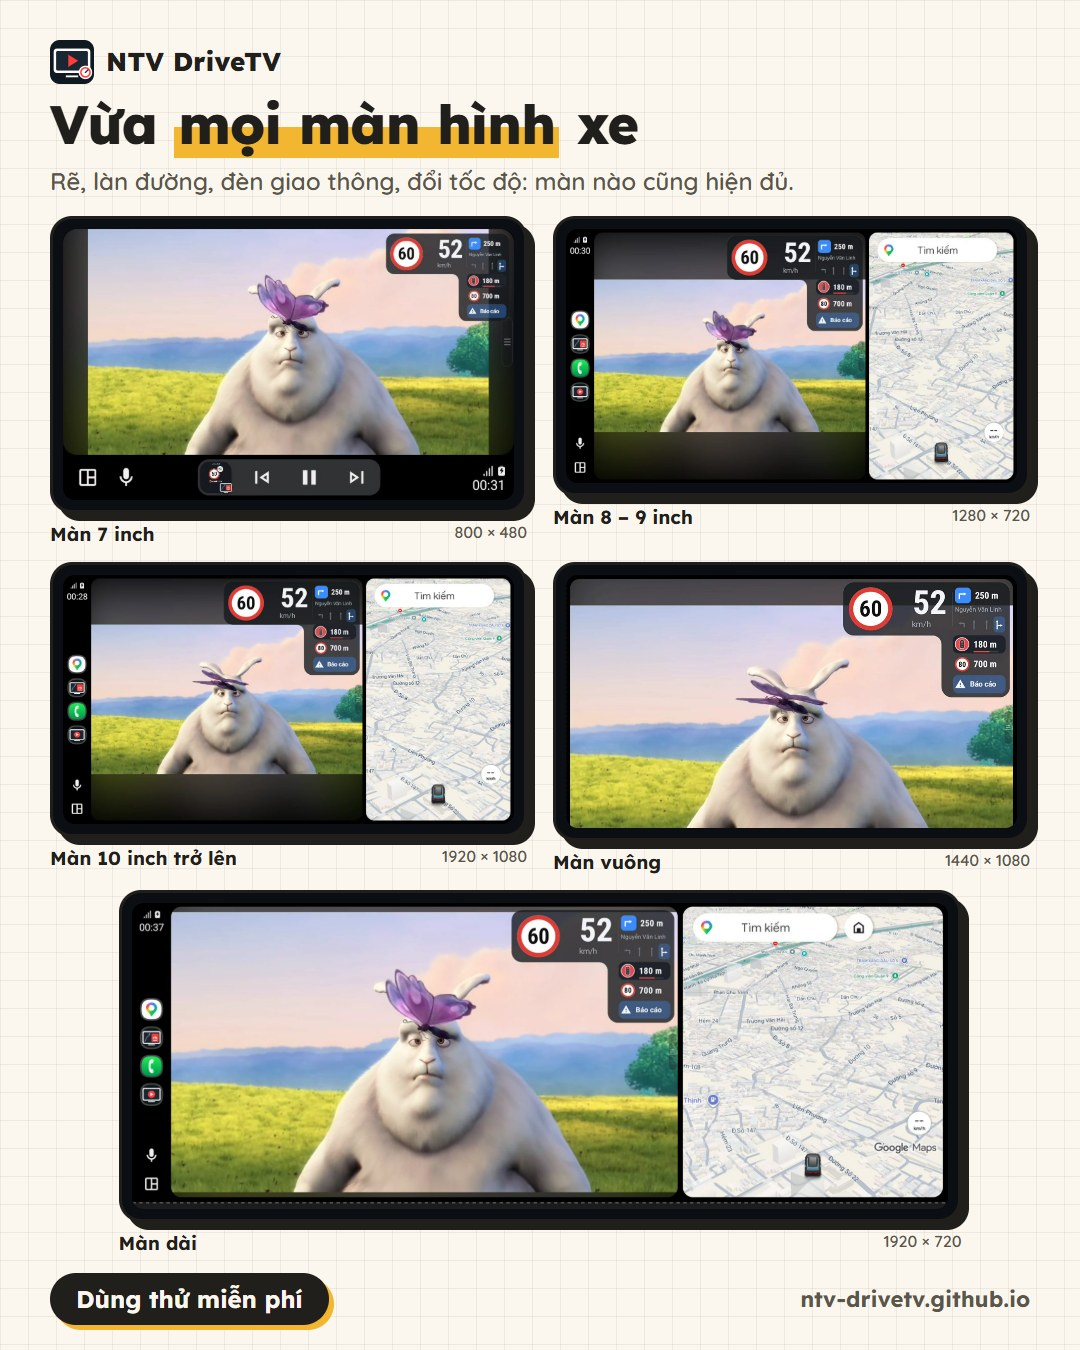
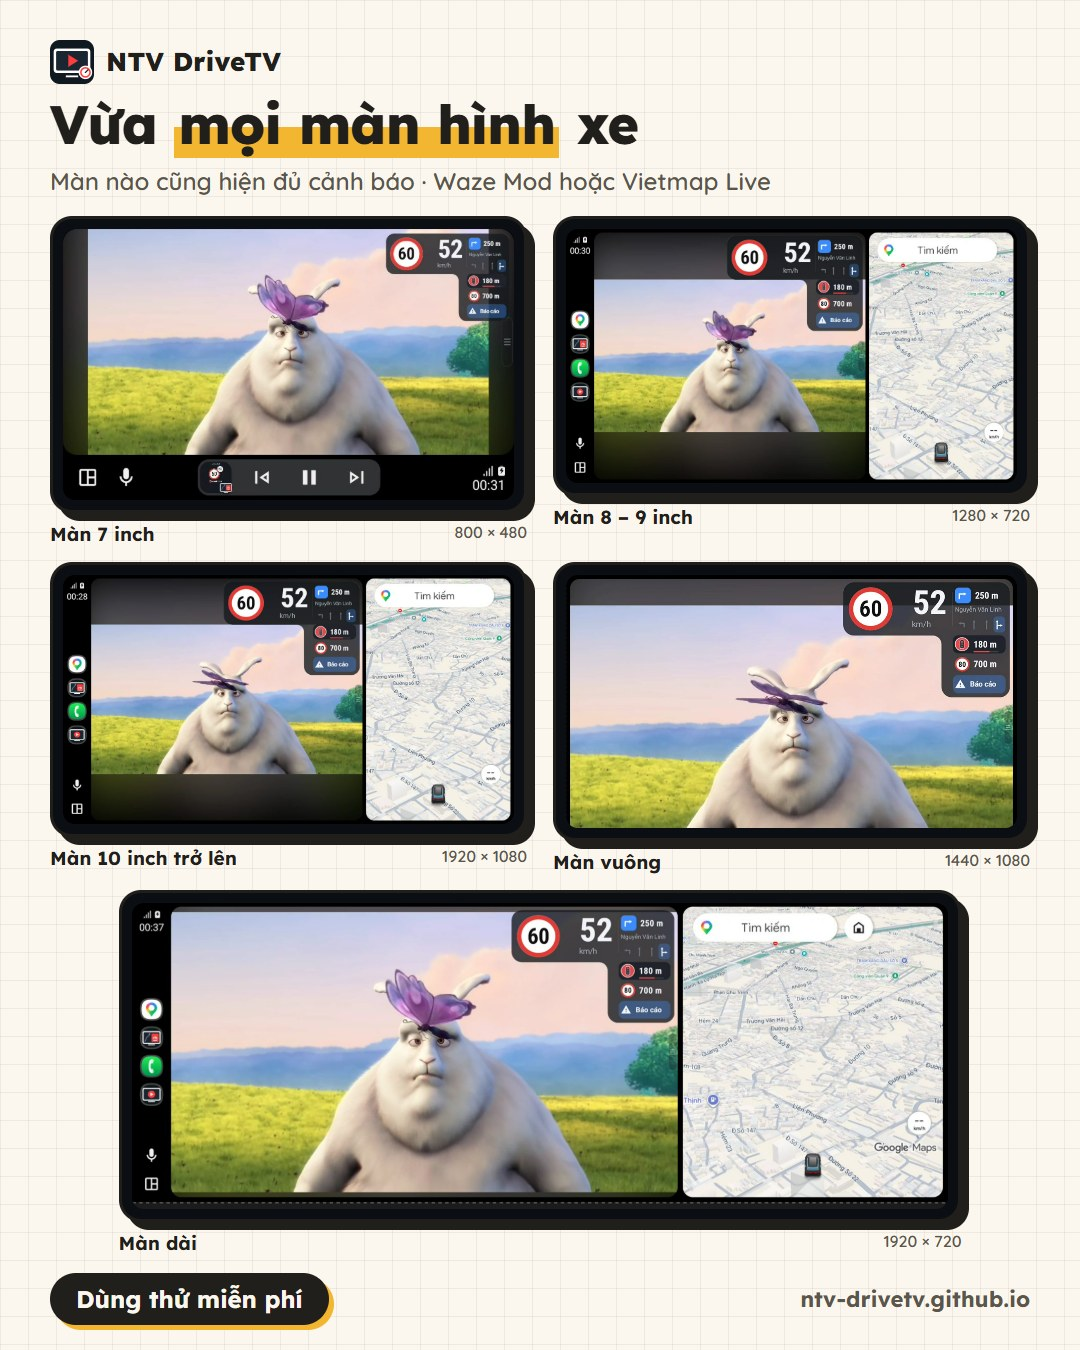
Nhắc Vietmap Live là nguồn tốc độ, cảnh báo bên cạnh Waze Mod
- Mô tả, trang chủ, thẻ tính năng, bảng giá, yêu cầu, so sánh, hỏi đáp: Waze Mod hoặc Vietmap Live; ghi rõ Vietmap không có lối rẽ, làn đường.
- Hỏi đáp mới: Dùng Vietmap Live được không.
- Ảnh quảng cáo, og.jpg ghi nguồn Waze Mod hoặc Vietmap Live.

Changed region(s): [[0.0306, 0.1244, 0.7333, 0.1556]]

diff --git a/index.html b/index.html
@@ -4,7 +4,7 @@
 <meta charset="utf-8">
 <meta name="viewport" content="width=device-width, initial-scale=1, viewport-fit=cover">
 <title>NTV DriveTV</title>
-<meta name="description" content="Xem YouTube trên màn hình Android Auto, góc màn hình có bong bóng báo giới hạn, tốc độ, chỗ rẽ, làn đường và camera lấy từ Waze Mod. Không cần root, dùng thử miễn phí.">
+<meta name="description" content="Xem YouTube trên màn hình Android Auto, góc màn hình có bong bóng báo giới hạn, tốc độ, chỗ rẽ, làn đường và camera lấy từ Waze Mod hoặc Vietmap Live. Không cần root, dùng thử miễn phí.">
 <meta property="og:title" content="NTV DriveTV">
 <meta property="og:description" content="YouTube trên màn hình xe mà tốc độ, chỗ rẽ, làn đường, đèn giao thông, đổi tốc độ vẫn hiện ngay đó. Không cần root.">
 <meta property="og:image" content="img/og.jpg">
@@ -388,7 +388,7 @@
         <div class="hero-copy">
           <span class="tag">Cho xe có Android Auto</span>
           <h1>Xem YouTube trên màn hình xe mà vẫn biết tốc độ, lối rẽ, đèn phía trước</h1>
-          <p class="lede">NTV DriveTV giúp bạn mở YouTube ngay trên màn hình Android Auto của xe. Ở góc màn hình luôn có một bong bóng nhỏ cho bạn biết <span class="mark">đoạn đường cho chạy tối đa bao nhiêu</span>, <span class="mark">xe đang chạy bao nhiêu</span>, <span class="mark">sắp rẽ ở đâu, đi làn nào</span> và <span class="mark">phía trước có đèn giao thông, camera hay đổi tốc độ không</span>. Số liệu lấy từ Waze Mod trên điện thoại, nên Waze báo gì thì bong bóng hiện đúng như vậy.</p>
+          <p class="lede">NTV DriveTV giúp bạn mở YouTube ngay trên màn hình Android Auto của xe. Ở góc màn hình luôn có một bong bóng nhỏ cho bạn biết <span class="mark">đoạn đường cho chạy tối đa bao nhiêu</span>, <span class="mark">xe đang chạy bao nhiêu</span>, <span class="mark">sắp rẽ ở đâu, đi làn nào</span> và <span class="mark">phía trước có đèn giao thông, camera hay đổi tốc độ không</span>. Số liệu lấy từ <b>Waze Mod</b> hoặc <b>Vietmap Live</b> trên điện thoại (bạn chọn), nên app báo gì thì bong bóng hiện đúng như vậy.</p>
           <div class="actions">
             <a class="btn dark" href="#cach-mua">Dùng thử miễn phí <span data-trial>3</span> ngày <svg viewBox="0 0 24 24" fill="none" stroke="currentColor" stroke-width="2.5" stroke-linecap="round" stroke-linejoin="round" aria-hidden="true"><path d="M5 12h14M13 6l6 6-6 6"/></svg></a>
             <a class="btn light" href="#man-hinh">Xem trên màn hình giống xe bạn <svg viewBox="0 0 24 24" fill="none" stroke="currentColor" stroke-width="2.5" stroke-linecap="round" stroke-linejoin="round" aria-hidden="true"><path d="M12 5v14M6 13l6 6 6-6"/></svg></a>
@@ -435,14 +435,14 @@
         <article class="fcard c-orange">
           <span class="pill">Cảnh báo</span>
           <h3>Lối rẽ, làn đường, đèn giao thông, đổi tốc độ</h3>
-          <p>Gần tới ngã rẽ thì hiện mũi tên, tên đường và làn nên đi. Còn khoảng 500 m tới đèn giao thông hay camera là có thanh đếm lùi để bạn kịp giảm tốc. Phía trước sắp đổi tốc độ hay đang kẹt xe cũng được báo trước.</p>
+          <p>Gần tới ngã rẽ thì hiện mũi tên, tên đường và làn nên đi. Còn khoảng 500 m tới đèn giao thông hay camera là có thanh đếm lùi để bạn kịp giảm tốc. Phía trước sắp đổi tốc độ hay đang kẹt xe cũng được báo trước. Lối rẽ và làn đường có khi dùng Waze Mod.</p>
           <div class="art"><span class="chip l">🚦 180 m</span><span class="chip r">↱ 250 m</span><svg viewBox="0 0 48 48" aria-hidden="true"><path d="M24,0.5a23.5,23.5 0,1 1,0 47.0a23.5,23.5 0,1 1,0 -47.0z" fill="#FFFFFF"/><path d="M24,2.5a21.5,21.5 0,1 1,0 43.0a21.5,21.5 0,1 1,0 -43.0z" fill="#FF8A00"/><path d="M14,16h13a3,3 0,0 1,3,3v6a3,3 0,0 1,-3,3h-13a3,3 0,0 1,-3,-3v-6a3,3 0,0 1,3,-3z" fill="#FFFFFF"/><path d="M30,18.5L37,16V28L30,25.5z" fill="#FFFFFF"/><path d="M16.5,19.8a2.2,2.2 0,1 1,0 4.4a2.2,2.2 0,1 1,0 -4.4z" fill="#FF8A00"/><path d="M20.5,28V35" fill="none" stroke="#FFFFFF" stroke-width="3" stroke-linecap="round" stroke-linejoin="round"/><path d="M16.5,34.5h8a1.5,1.5 0,0 1,1.5,1.5v0a1.5,1.5 0,0 1,-1.5,1.5h-8a1.5,1.5 0,0 1,-1.5,-1.5v-0a1.5,1.5 0,0 1,1.5,-1.5z" fill="#FFFFFF"/></svg></div>
         </article>
         <article class="fcard c-green">
           <span class="pill">Cạnh bản đồ</span>
           <h3>Hiện tốc độ giới hạn bên cạnh bản đồ</h3>
-          <p>Mở Google Maps hay Waze để chỉ đường, thẻ DriveTV bên cạnh bản đồ vẫn hiện biển giới hạn, tốc độ xe, chỗ rẽ và camera. Video thì vẫn phát tiếng bình thường.</p>
-          <div class="art"><span class="chip l">Google Maps</span><span class="chip r">Waze</span><svg viewBox="18 18 72 72" aria-hidden="true"><path d="M28,30h52a6,6 0,0 1,6 6v34a6,6 0,0 1,-6 6h-52a6,6 0,0 1,-6 -6v-34a6,6 0,0 1,6 -6z" fill="#FFFFFF"/><path d="M29,34h50a3,3 0,0 1,3 3v32a3,3 0,0 1,-3 3h-50a3,3 0,0 1,-3 -3v-32a3,3 0,0 1,3 -3z" fill="#1B2633"/><path d="M31,67C35,60 34,54 40,50S47,44 47,42" fill="none" stroke="#6B7A8F" stroke-width="3" stroke-linecap="round" stroke-linejoin="round"/><path d="M47,37a3.5,3.5 0,1 1,0 7a3.5,3.5 0,1 1,0 -7z" fill="#6B7A8F"/><path d="M57,39h19a3,3 0,0 1,3 3v24a3,3 0,0 1,-3 3h-19a3,3 0,0 1,-3 -3v-24a3,3 0,0 1,3 -3z" fill="#FF3D3D"/><path d="M60,57.5a6.5,6.5 0,1 1,13 0" fill="none" stroke="#FFFFFF" stroke-width="2.5" stroke-linecap="round" stroke-linejoin="round"/><path d="M66.5,57.5L70,52.5" fill="none" stroke="#FFFFFF" stroke-width="2.2" stroke-linecap="round" stroke-linejoin="round"/><path d="M60,62h13v2.5h-13z" fill="#FFFFFF"/><path d="M42,78h24v3h-24z" fill="#FFFFFF"/></svg></div>
+          <p>Mở Google Maps, Waze hay Vietmap Live để chỉ đường, thẻ DriveTV bên cạnh bản đồ vẫn hiện biển giới hạn, tốc độ xe, chỗ rẽ và camera. Video thì vẫn phát tiếng bình thường.</p>
+          <div class="art"><span class="chip l">Google Maps</span><span class="chip r">Waze · Vietmap</span><svg viewBox="18 18 72 72" aria-hidden="true"><path d="M28,30h52a6,6 0,0 1,6 6v34a6,6 0,0 1,-6 6h-52a6,6 0,0 1,-6 -6v-34a6,6 0,0 1,6 -6z" fill="#FFFFFF"/><path d="M29,34h50a3,3 0,0 1,3 3v32a3,3 0,0 1,-3 3h-50a3,3 0,0 1,-3 -3v-32a3,3 0,0 1,3 -3z" fill="#1B2633"/><path d="M31,67C35,60 34,54 40,50S47,44 47,42" fill="none" stroke="#6B7A8F" stroke-width="3" stroke-linecap="round" stroke-linejoin="round"/><path d="M47,37a3.5,3.5 0,1 1,0 7a3.5,3.5 0,1 1,0 -7z" fill="#6B7A8F"/><path d="M57,39h19a3,3 0,0 1,3 3v24a3,3 0,0 1,-3 3h-19a3,3 0,0 1,-3 -3v-24a3,3 0,0 1,3 -3z" fill="#FF3D3D"/><path d="M60,57.5a6.5,6.5 0,1 1,13 0" fill="none" stroke="#FFFFFF" stroke-width="2.5" stroke-linecap="round" stroke-linejoin="round"/><path d="M66.5,57.5L70,52.5" fill="none" stroke="#FFFFFF" stroke-width="2.2" stroke-linecap="round" stroke-linejoin="round"/><path d="M60,62h13v2.5h-13z" fill="#FFFFFF"/><path d="M42,78h24v3h-24z" fill="#FFFFFF"/></svg></div>
         </article>
         <article class="fcard c-purple">
           <span class="pill">Menu</span>
@@ -484,14 +484,14 @@
           <li><b>🚦 Đèn giao thông</b>Còn dưới 500 m thì có thanh đếm lùi màu đỏ.</li>
           <li><b>80 Đổi tốc độ phía trước</b>Biển giới hạn mới và còn bao xa tới đó.</li>
         </ul>
-        <p class="note">Trên là bong bóng dọc lúc sắp tới ngã rẽ. Giữa là bong bóng ngang cùng tình huống. Dưới là bong bóng ngang lúc lỡ chạy quá tốc độ, phần tốc độ chuyển sang đỏ.</p>
+        <p class="note">Lối rẽ và làn đường lấy từ Waze Mod; dùng Vietmap Live thì bong bóng hiện giới hạn, tốc độ, camera và các cảnh báo của Vietmap. Trên là bong bóng dọc lúc sắp tới ngã rẽ. Giữa là bong bóng ngang cùng tình huống. Dưới là bong bóng ngang lúc lỡ chạy quá tốc độ, phần tốc độ chuyển sang đỏ.</p>
       </div>
     </div>
   </section>
 
   <section class="block gutter">
     <div class="wrap">
-      <div class="head"><h2>Đang chỉ đường bằng Google Maps hay Waze vẫn thấy tốc độ</h2><p>Lúc không xem video, bạn cứ để bản đồ chiếm màn hình. Thẻ DriveTV bên cạnh vẫn hiện biển giới hạn và tốc độ xe. Dòng trên cho biết còn bao xa tới chỗ rẽ và rẽ vào đường nào. Dòng dưới chỉ nhắc những gì đáng để ý như đèn giao thông, camera, đổi tốc độ, trạm thu phí. Video vẫn phát tiếng, bạn quay lại là thấy hình ngay.</p></div>
+      <div class="head"><h2>Đang chỉ đường bằng Google Maps, Waze hay Vietmap vẫn thấy tốc độ</h2><p>Lúc không xem video, bạn cứ để bản đồ chiếm màn hình. Thẻ DriveTV bên cạnh vẫn hiện biển giới hạn và tốc độ xe. Dòng trên cho biết còn bao xa tới chỗ rẽ và rẽ vào đường nào. Dòng dưới chỉ nhắc những gì đáng để ý như đèn giao thông, camera, đổi tốc độ, trạm thu phí. Video vẫn phát tiếng, bạn quay lại là thấy hình ngay.</p></div>
       <div class="visual box solo wide"><div class="dark"><img src="img/mh-1280x720-ban-do.jpg" width="1280" height="720" loading="lazy" alt="Google Maps bên trái; thẻ DriveTV bên phải có biển 60 to, tốc độ 52 trong vòng tròn nhỏ, viên Đèn đỏ 180 m, dòng rẽ phải 250 m vào Nguyễn Văn Linh và dòng Đèn đỏ 180 m."></div></div>
     </div>
   </section>
@@ -502,7 +502,7 @@
         <h2>Thấy Waze báo sai? Ghi lại để sửa</h2>
         <p>Dữ liệu tốc độ và camera của Waze do chính người dùng cập nhật, nên đôi chỗ vẫn còn sai, ví dụ đường đã đổi biển 60 mà Waze vẫn báo 50, hay có camera mà Waze chưa biết. Tính năng này giúp bạn ghi lại những chỗ đó ngay lúc đi qua, để sửa sau cho đúng.</p>
         <ol class="howto">
-          <li><b>Trên xe, bấm Báo cáo</b> (nút trên bong bóng hoặc trong menu) rồi chọn loại lỗi: sai tốc độ, thiếu camera, cảnh báo sai, biển cấm… App tự lưu lại vị trí, tốc độ, biển Waze đang báo và tên đường.</li>
+          <li><b>Trên xe, bấm Báo cáo</b> (nút trên bong bóng hoặc trong menu) rồi chọn loại lỗi: sai tốc độ, thiếu camera, cảnh báo sai, biển cấm… App tự lưu lại vị trí, tốc độ, biển đang được báo và tên đường.</li>
           <li><b>Về nhà, mở mục Báo cáo bản đồ</b> trên điện thoại để xem lại từng chỗ đã ghi.</li>
           <li><b>Xuất file</b> gửi cho người sửa bản đồ Waze ở khu vực bạn, hoặc tự vào Waze Map Editor sửa. Sửa xong thì lần sau đi qua, Waze sẽ báo đúng cho bạn và cho cả những người đi sau.</li>
         </ol>
@@ -610,7 +610,7 @@
           <div class="terms-box" id="terms" hidden><b>Khi mua bản quyền</b><ul class="ticks"></ul></div>
           <ul class="ticks">
             <li>YouTube và trang web trên màn hình Android Auto</li>
-            <li>Bong bóng tốc độ, camera, chỗ rẽ, làn đường từ Waze Mod</li>
+            <li>Bong bóng tốc độ, camera, chỗ rẽ, làn đường từ Waze Mod hoặc Vietmap Live</li>
             <li>Tốc độ trên thẻ cạnh bản đồ</li>
             <li>Menu một chạm, nút vô-lăng, tìm bằng giọng nói</li>
             <li>Báo lỗi bản đồ, xuất file CSV và GeoJSON</li>
@@ -639,7 +639,7 @@
         <div class="req box"><b>Điện thoại</b><p>Android 10 trở lên, có Google Play, không cần root. Riêng máy Huawei đời mới không có dịch vụ Google nên không chạy được Android Auto.</p></div>
         <div class="req box"><b>Xe</b><p>Xe có Android Auto, kết nối bằng dây hay không dây đều được.</p></div>
         <div class="req box"><b>Tài khoản</b><p>Một tài khoản Google để đăng nhập app và giữ bản quyền.</p></div>
-        <div class="req box"><b>Dữ liệu tốc độ</b><p>Waze Mod V14 trở lên (có Data API) và mở Waze trên điện thoại khi đi. Chưa có Waze Mod thì bạn vẫn xem video được, chỉ là không có bong bóng tốc độ.</p></div>
+        <div class="req box"><b>Dữ liệu tốc độ</b><p>Một trong hai: <b>Waze Mod</b> V14 trở lên (có Data API), mở Waze trên điện thoại khi đi; hoặc <b>Vietmap Live</b> đã đăng nhập, để Vietmap chạy trên điện thoại khi đi. Chưa có app nào thì bạn vẫn xem video được, chỉ là không có bong bóng tốc độ.</p></div>
         <div class="req box"><b>YouTube</b><p>Nên có YouTube Premium để xem không bị quảng cáo, vì app không chặn quảng cáo.</p></div>
       </div>
     </div>
@@ -655,8 +655,9 @@
           <details><summary>Xe của tôi có dùng được không?</summary><p>Xe có Android Auto và điện thoại chạy Android 10 trở lên là dùng được bạn nhé. Bạn có thể xem trước ảnh trên màn hình giống xe mình ở mục <a href="#man-hinh">Màn hình xe</a>.</p></details>
           <details><summary>Có phải root máy hay cài đặt phức tạp không?</summary><p>Không đâu. App cài từ Google Play như mọi app khác, không cần root, cũng không cần bật chế độ nhà phát triển.</p></details>
           <details><summary>Dùng thử bao lâu? Hết hạn thì sao?</summary><p>Được dùng thử <span data-trial>3</span> ngày. Hết hạn thì màn hình xe sẽ báo để bạn mua bản quyền. Nếu hết hạn đúng lúc đang chạy thì app cũng không tắt giữa đường, phải tới lần cắm xe sau mới báo.</p></details>
-          <details><summary>Số liệu trên bong bóng lấy từ đâu?</summary><p>Từ Waze Mod chạy trên điện thoại của bạn: giới hạn, tốc độ, camera, cảnh báo, chỗ rẽ và làn đường. App không tự đo tốc độ bằng GPS, nên số liệu luôn khớp với Waze.</p></details>
-          <details><summary>Không có Waze Mod thì sao?</summary><p>Bạn vẫn xem YouTube và trang web bình thường. Bong bóng sẽ nhắc mở Waze Mod; nếu không dùng thì bạn tắt bong bóng đi cũng được.</p></details>
+          <details><summary>Số liệu trên bong bóng lấy từ đâu?</summary><p>Từ Waze Mod hoặc Vietmap Live chạy trên điện thoại của bạn, chọn trong app ở thẻ Bong bóng → Nguồn tốc độ và cảnh báo. Waze Mod cho đủ giới hạn, tốc độ, camera, cảnh báo, chỗ rẽ và làn đường. Vietmap Live cho giới hạn, tốc độ, camera và cảnh báo (không có chỗ rẽ, làn đường). App không tự đo tốc độ bằng GPS, nên số liệu luôn khớp với app bạn chọn.</p></details>
+          <details><summary>Dùng Vietmap Live được không?</summary><p>Được. Trong app chọn Vietmap Live làm nguồn tốc độ; lần đầu bấm "Tạo" và "Luôn cho phép" để app đọc được tốc độ của Vietmap. Khi đi, bạn đăng nhập Vietmap Live, mở Vietmap và đừng vuốt tắt nó; nên để pin của Vietmap ở chế độ "Không hạn chế".</p></details>
+          <details><summary>Không có Waze Mod hay Vietmap Live thì sao?</summary><p>Bạn vẫn xem YouTube và trang web bình thường. Bong bóng sẽ nhắc mở app nguồn tốc độ; nếu không dùng thì bạn tắt bong bóng đi cũng được.</p></details>
           <details><summary>Có bị quảng cáo YouTube không?</summary><p>App mở YouTube giống như trên trình duyệt và không chặn quảng cáo. Bạn đăng nhập tài khoản có YouTube Premium là không còn quảng cáo.</p></details>
         </div>
         <div>
@@ -722,7 +723,7 @@
         <div class="row head-row-c"><span></span><b>NTV DriveTV</b><b>NTV CarCast</b></div>
         <div class="row"><span>Root máy</span><span>Không cần</span><span>Cần root và LSPosed</span></div>
         <div class="row"><span>Mở được gì trên xe</span><span>YouTube và trang web</span><span>Gần như mọi app điện thoại</span></div>
-        <div class="row"><span>Bong bóng tốc độ từ Waze Mod</span><span>Có</span><span>Không</span></div>
+        <div class="row"><span>Bong bóng tốc độ từ Waze Mod / Vietmap Live</span><span>Có</span><span>Không</span></div>
         <div class="row"><span>Chia đôi, chia ba màn hình</span><span>Không</span><span>Có</span></div>
         <div class="row"><span>Cài đặt</span><span>Từ Google Play</span><span>Tải APK, bật module LSPosed</span></div>
         <div class="row"><span>Giá</span><span><span data-price>200.000đ</span>, dùng thử <span data-trial>3</span> ngày</span><span>Miễn phí</span></div>
@@ -751,7 +752,7 @@
   <div class="wrap">
     <p><b>NTV DriveTV</b> · bản 1.0.0</p>
     <p>Chỉ xem video khi xe dừng. Tuân thủ luật giao thông và luôn quan sát đường.</p>
-    <p>NTV DriveTV không liên quan và không được Google, YouTube, Waze hay nhóm phát triển Waze Mod bảo trợ. Các tên này chỉ dùng để mô tả khả năng tương thích.</p>
+    <p>NTV DriveTV không liên quan và không được Google, YouTube, Waze, Vietmap hay nhóm phát triển Waze Mod bảo trợ. Các tên này chỉ dùng để mô tả khả năng tương thích.</p>
     <p>Phim trong ảnh minh hoạ: Big Buck Bunny, © Blender Foundation, giấy phép CC BY 3.0. Ảnh màn hình chụp trên bộ giả lập màn hình xe, số liệu tốc độ là cảnh mẫu.</p>
   </div>
 </footer>
